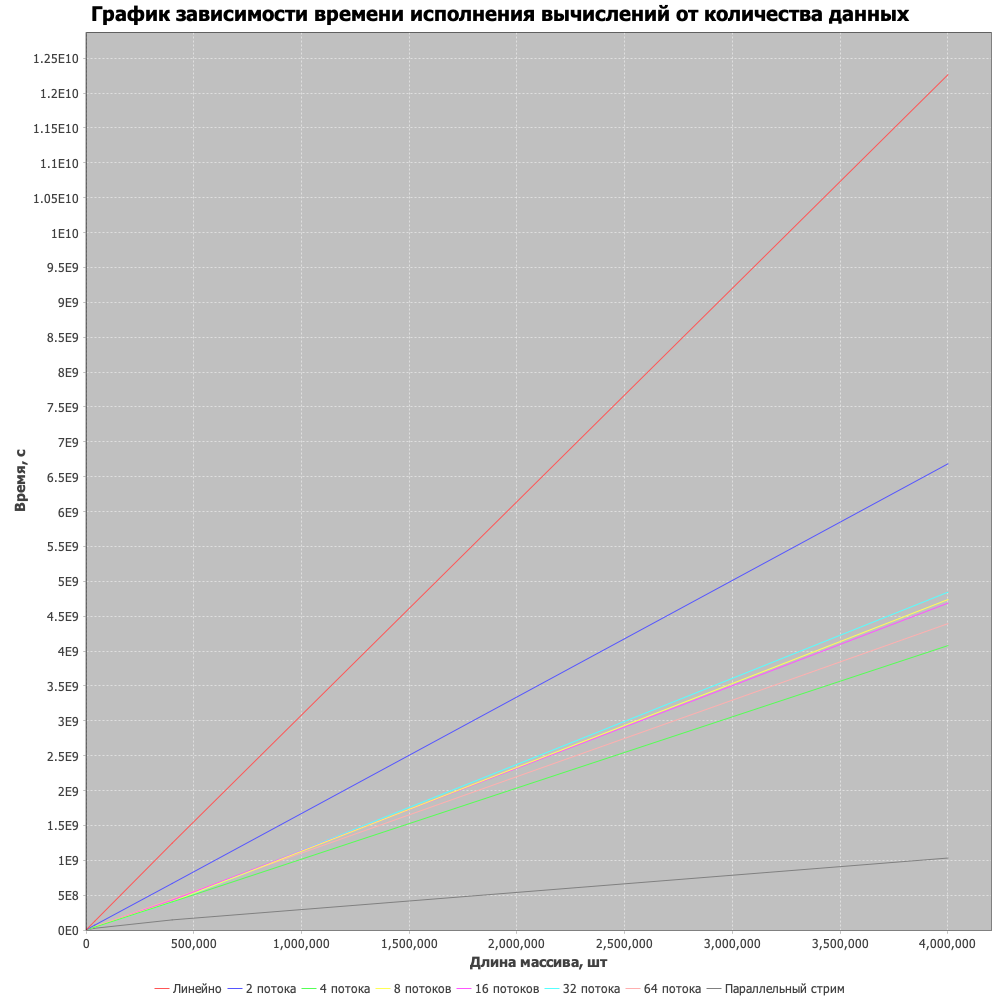
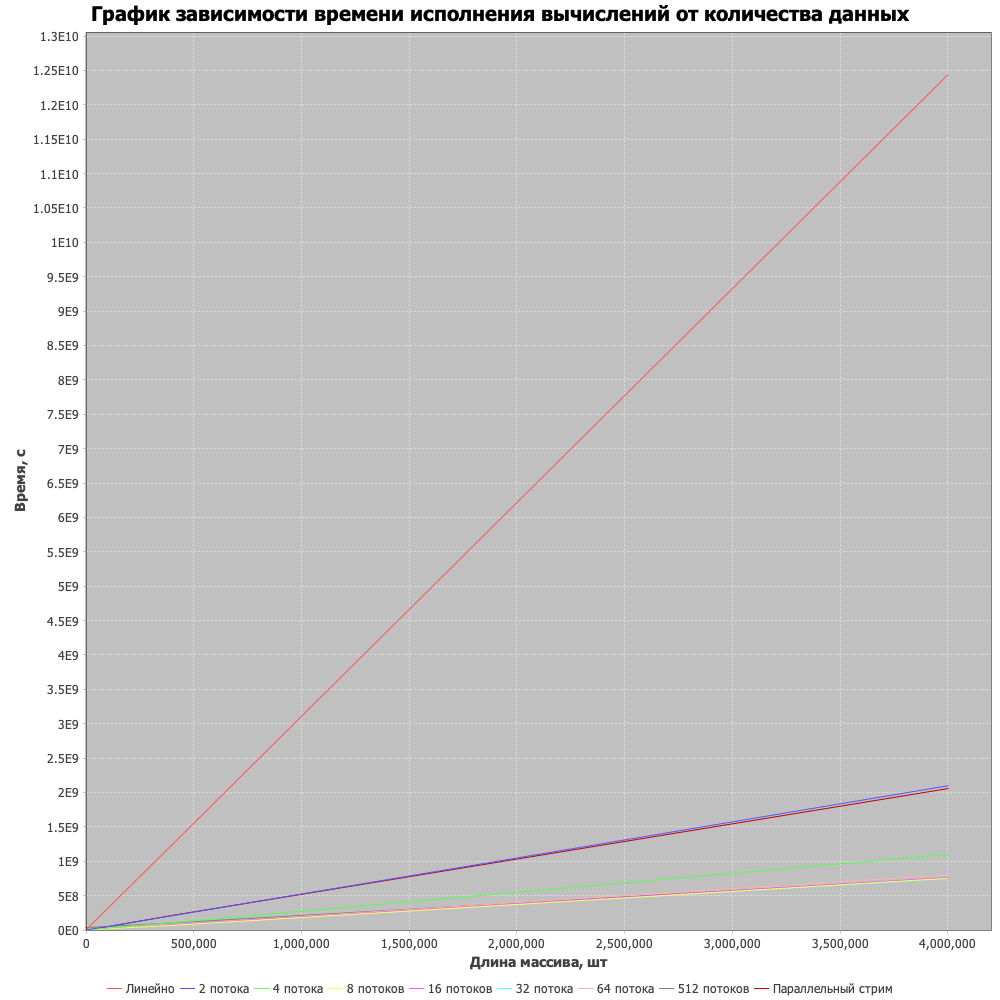
add: shutdown flags (both mine and builtin) fix: batch instead of blocking queue

diff --git a/Task_2_1_1/src/main/java/ru/nsu/dolgov/notprimefinder/NonPrimeThreadChecker.java b/Task_2_1_1/src/main/java/ru/nsu/dolgov/notprimefinder/NonPrimeThreadChecker.java
@@ -1,21 +1,18 @@
 package ru.nsu.dolgov.notprimefinder;
 
+import java.util.ArrayList;
 import java.util.List;
-import java.util.concurrent.ArrayBlockingQueue;
-import java.util.concurrent.BlockingQueue;
-import java.util.concurrent.Callable;
-import java.util.concurrent.ExecutionException;
-import java.util.concurrent.ExecutorService;
-import java.util.concurrent.Executors;
+import java.util.concurrent.*;
 
 /**
  * Not prime numbers finder implementation with thread-pool.
  */
-public class NonPrimeThreadChecker extends NonPrime implements Checker {
+public class NonPrimeThreadChecker extends NonPrimeChecker implements Checker {
     private final int threadQuantity;
-    private BlockingQueue<Integer> numbers;
     private ExecutorService threadPool;
-    private List<Callable<Boolean>> tasksToExecute;
+    private List<Future<Boolean>> futures;
+    // Шатдаун флаг, чтобы потоки знали, что пора сворачиваться.
+    private volatile Boolean shutdownFlag = false;
 
     /**
      * NonPrimeThread will use the number of threads equal
@@ -39,37 +36,63 @@ public class NonPrimeThreadChecker extends NonPrime implements Checker {
      *
      * @return task to execute.
      */
-    private Callable<Boolean> taskFactory() {
-        return () -> {
-            Integer nextNumber = this.numbers.poll();
-            while (nextNumber != null) {
-                if (!isPrime(nextNumber)) {
-                    return true;
-                }
-                nextNumber = this.numbers.poll();
+    private Boolean taskFactory(int[] numbers) {
+        for (var each : numbers) {
+            if (Thread.currentThread().isInterrupted()) {
+                return false;
             }
-            return false;
-        };
+            if (this.shutdownFlag) {
+                return false;
+            }
+            if (!isPrime(each)) {
+                this.shutdownFlag = true;
+                return true;
+            }
+        }
+        return false;
     }
 
     /**
-     * Method to init blocking queue to store numbers
-     * and to create a thread-pool.
+     * Gets partial array of integers to proceed.
+     *
+     * @param origin original array.
+     * @param from start of new array.
+     * @param length length of result array.
+     * @return partial array.
+     */
+    private int[] getPartialArray(int[] origin, int from, int length) {
+        int[] partialArray = new int[length];
+        System.arraycopy(origin, from, partialArray, 0, length);
+        return partialArray;
+    }
+
+    /**
+     * Method to init tasks to execute.
      *
      * @param array array of numbers to proceed.
      */
     private void prepare(int[] array) {
-        this.numbers = new ArrayBlockingQueue<>(array.length);
-
-        for (int each : array) {
-            this.numbers.add(each);
-        }
-
         this.threadPool = Executors.newFixedThreadPool(this.threadQuantity);
-
-        this.tasksToExecute = new java.util.ArrayList<>();
+        int batchSize = array.length / this.threadQuantity;
+        this.futures = new ArrayList<>();
         for (int i = 0; i < this.threadQuantity; i++) {
-            tasksToExecute.add(this.taskFactory());
+            int length = (i + 1) * batchSize;
+            if (i + 1 == this.threadQuantity) {
+                length = array.length;
+            }
+            int from = i * batchSize;
+            int finalLength = length - from;
+            this.futures.add(
+                this.threadPool.submit(
+                    () -> this.taskFactory(
+                        this.getPartialArray(
+                            array,
+                            from,
+                            finalLength
+                        )
+                    )
+                )
+            );
         }
     }
 
@@ -80,20 +103,20 @@ public class NonPrimeThreadChecker extends NonPrime implements Checker {
      * @return true if array includes at least one not prime number.
      */
     @Override
-    public boolean check(int[] array) throws InterruptedException {
-        this.prepare(array);
-        return this.threadPool.invokeAll(
-            this.tasksToExecute
-        ).stream().anyMatch(
-            executedTaskValue -> {
-                try {
-                    return executedTaskValue.get();
-                } catch (InterruptedException | ExecutionException e) {
-                    throw new RuntimeException(e);
-                } finally {
-                    this.threadPool.shutdownNow();
+    public boolean check(int[] array) {
+        try {
+            this.prepare(array);
+            for (Future<Boolean> result : this.futures) {
+                if (result.get()) {
+                    this.shutdownFlag = true;
+                    return true;
                 }
             }
-        );
+        } catch (InterruptedException | ExecutionException e) {
+            e.printStackTrace();
+        } finally {
+            this.threadPool.shutdownNow();
+        }
+        return false;
     }
 }

diff --git a/Task_2_1_1/src/test/java/ru/nsu/dolgov/notprimefinder/DrawerTest.java b/Task_2_1_1/src/test/java/ru/nsu/dolgov/notprimefinder/DrawerTest.java
@@ -32,7 +32,7 @@ public class DrawerTest {
      * @return Average time to do the equation.
      * @throws InterruptedException if the current thread was interrupted.
      */
-    private long getAverageTime(NonPrime nonPrimeChecker, int[] array) throws InterruptedException {
+    private long getAverageTime(NonPrimeChecker nonPrimeChecker, int[] array) throws InterruptedException {
         long time = 0;
 
         for (int i = 0; i < 3; ++i) {
@@ -62,6 +62,7 @@ public class DrawerTest {
         XYSeries threaded16Series = new XYSeries("16 потоков");
         XYSeries threaded32Series = new XYSeries("32 потока");
         XYSeries threaded64Series = new XYSeries("64 потока");
+        XYSeries threaded512Series = new XYSeries("512 потоков");
         XYSeries streamSeries = new XYSeries("Параллельный стрим");
 
         for (int sizeOfArray = 40; sizeOfArray <= 4000000; sizeOfArray *= 10) {
@@ -73,6 +74,7 @@ public class DrawerTest {
             threaded16Series.add(sizeOfArray, getAverageTime(new NonPrimeThreadChecker(16), array));
             threaded32Series.add(sizeOfArray, getAverageTime(new NonPrimeThreadChecker(32), array));
             threaded64Series.add(sizeOfArray, getAverageTime(new NonPrimeThreadChecker(64), array));
+            threaded512Series.add(sizeOfArray, getAverageTime(new NonPrimeThreadChecker(512), array));
             streamSeries.add(sizeOfArray, getAverageTime(new NonPrimeStreamChecker(), array));
             System.out.println(sizeOfArray);
         }
@@ -84,6 +86,7 @@ public class DrawerTest {
         dataset.addSeries(threaded16Series);
         dataset.addSeries(threaded32Series);
         dataset.addSeries(threaded64Series);
+        dataset.addSeries(threaded512Series);
         dataset.addSeries(streamSeries);
         Drawer drawer = new Drawer(dataset);
         drawer.createFile();

diff --git a/Task_2_1_1/src/test/java/ru/nsu/dolgov/notprimefinder/NonPrimeTest.java b/Task_2_1_1/src/test/java/ru/nsu/dolgov/notprimefinder/NonPrimeTest.java
@@ -12,21 +12,21 @@ import org.junit.jupiter.api.Test;
 public class NonPrimeTest {
     @Test
     void testSmallNumberTrue() {
-        assertTrue(NonPrime.isPrime(11));
+        assertTrue(NonPrimeChecker.isPrime(11));
     }
 
     @Test
     void testSmallNumberFalse() {
-        assertFalse(NonPrime.isPrime(9));
+        assertFalse(NonPrimeChecker.isPrime(9));
     }
 
     @Test
     void testBigNumberFalse() {
-        assertTrue(NonPrime.isPrime(568713463));
+        assertTrue(NonPrimeChecker.isPrime(568713463));
     }
 
     @Test
     void testBigNumberTrue() {
-        assertFalse(NonPrime.isPrime(568713467));
+        assertFalse(NonPrimeChecker.isPrime(568713467));
     }
 }

diff --git a/Task_2_1_1/src/main/java/ru/nsu/dolgov/notprimefinder/NonPrimeLinearChecker.java b/Task_2_1_1/src/main/java/ru/nsu/dolgov/notprimefinder/NonPrimeLinearChecker.java
@@ -4,7 +4,7 @@ package ru.nsu.dolgov.notprimefinder;
 /**
  * Not prime numbers finder implementation with simple cycle.
  */
-public class NonPrimeLinearChecker extends NonPrime implements Checker {
+public class NonPrimeLinearChecker extends NonPrimeChecker implements Checker {
     /**
      * An override for check method in the Checker interface.
      *

diff --git a/Task_2_1_1/src/main/java/ru/nsu/dolgov/notprimefinder/NonPrimeStreamChecker.java b/Task_2_1_1/src/main/java/ru/nsu/dolgov/notprimefinder/NonPrimeStreamChecker.java
@@ -5,7 +5,7 @@ import java.util.Arrays;
 /**
  * Not prime numbers finder implementation with stream API.
  */
-public class NonPrimeStreamChecker extends NonPrime implements Checker {
+public class NonPrimeStreamChecker extends NonPrimeChecker implements Checker {
     /**
      * An override for check method in the Checker interface.
      *

diff --git a/Task_2_1_1/src/main/java/ru/nsu/dolgov/notprimefinder/NonPrimeChecker.java b/Task_2_1_1/src/main/java/ru/nsu/dolgov/notprimefinder/NonPrimeChecker.java
@@ -3,7 +3,7 @@ package ru.nsu.dolgov.notprimefinder;
 /**
  * Simple finder of not prime numbers.
  */
-public abstract class NonPrime implements Checker {
+public abstract class NonPrimeChecker implements Checker {
     /**
      * Method to check whether number is prime or not.
      *
